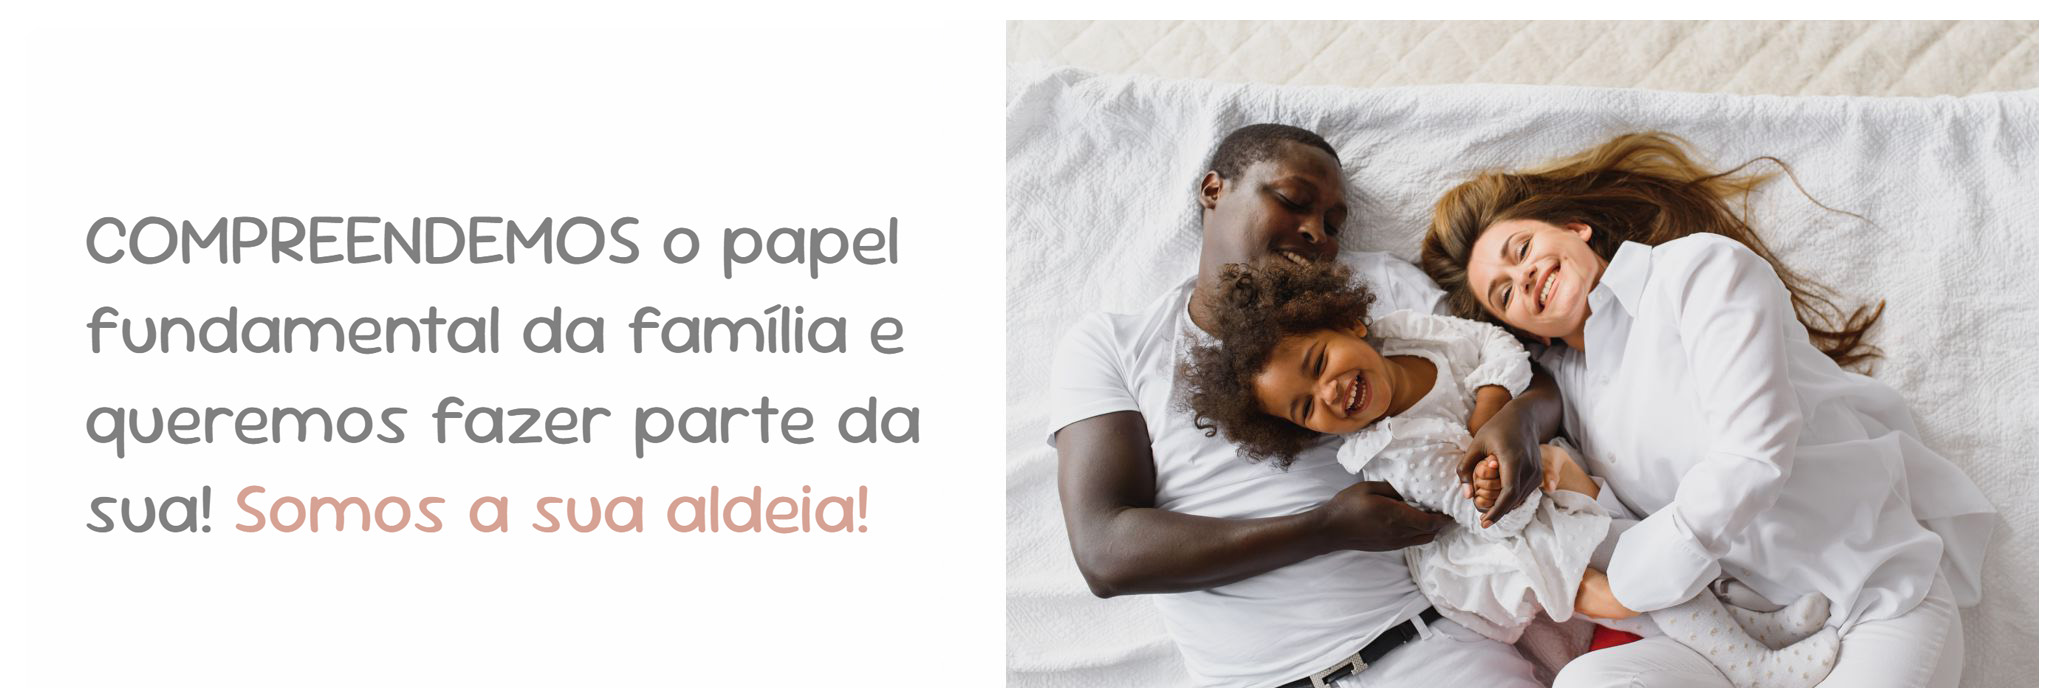
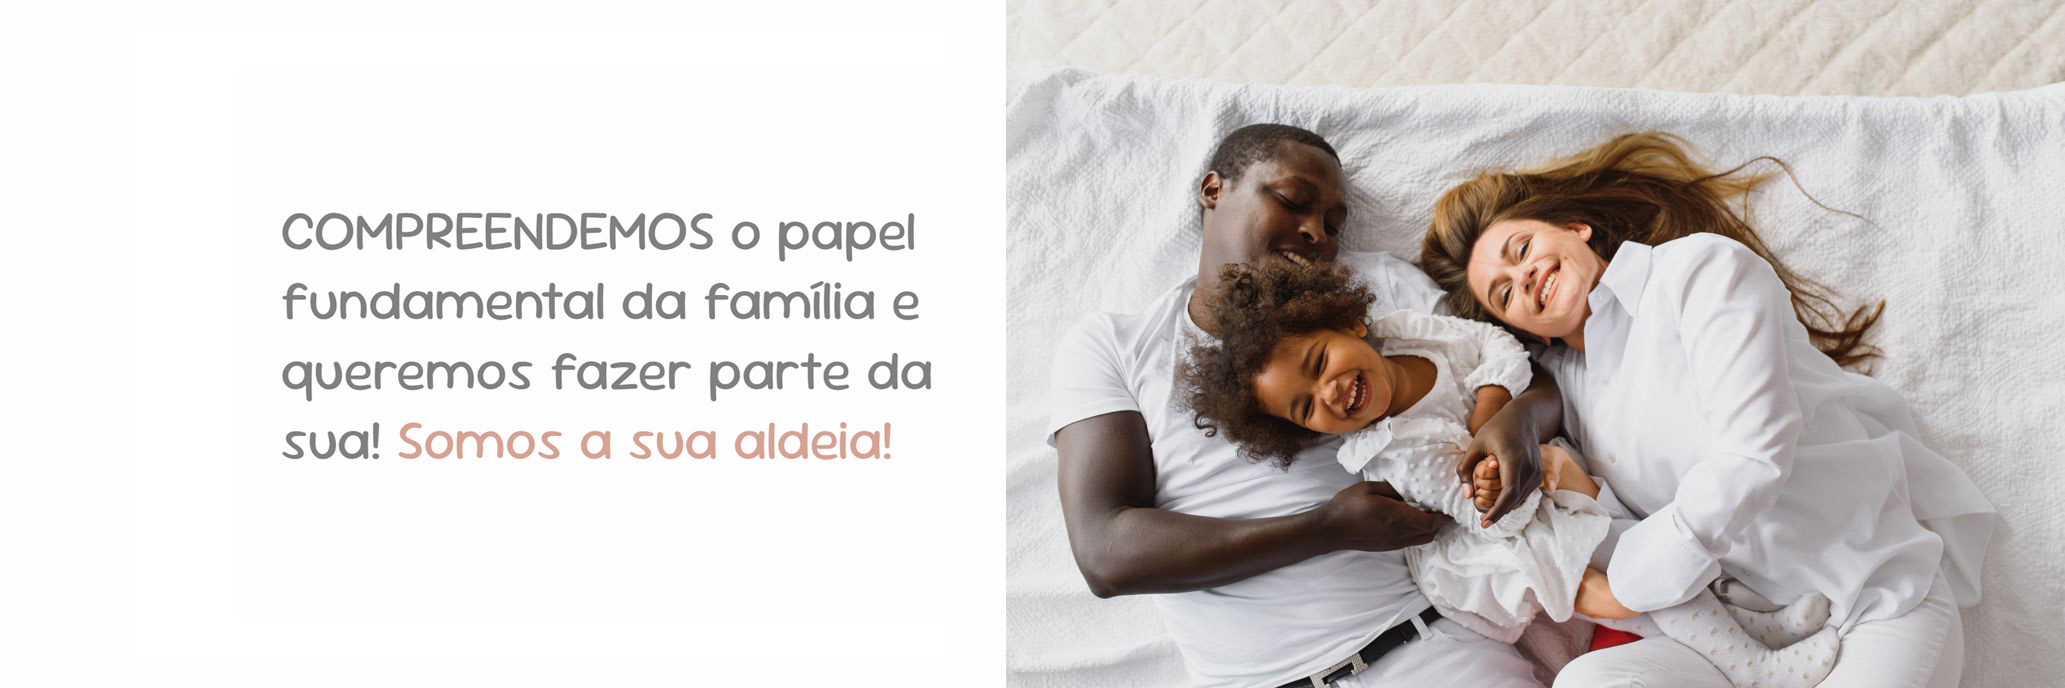
hgy

Changed region(s): [[0.031, 0.3052, 0.4649, 0.6715], [0.4649, 0.0, 1.0, 1.0], [0.031, 0.702, 0.4339, 0.7936]]

diff --git a/about.html b/about.html
@@ -50,8 +50,8 @@
         }
 
         .consultation__video {
-            height: 550px;
-            width: 1200px;
+            height: 550px !important;
+            width: 1200px !important;
         }
 
         .employer {
@@ -184,8 +184,7 @@
                             <div class="row">
                                 <div class="col-lg-6 mt-2 ml-4">
                                     <div class="hero__text">
-                                        <h2>COMPREENDEMOS o papel fundamental da família e queremos fazer parte
-                                            da sua! <b>Somos a sua aldeia!</b></h2>
+
                                     </div>
                                 </div>
                             </div>

diff --git a/css/style.css b/css/style.css
@@ -4636,6 +4636,7 @@ a.sub-arrow {
 
 @media (min-width: 768px) and (max-width: 1366px) {
     .container {
-        max-width: 95%;
+        max-width: 95% !important;
+        ;
     }
 }
